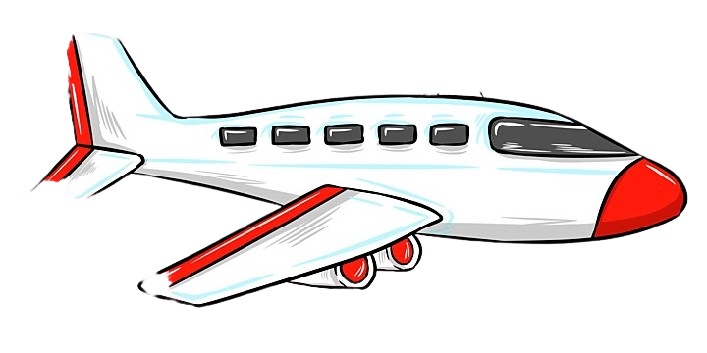
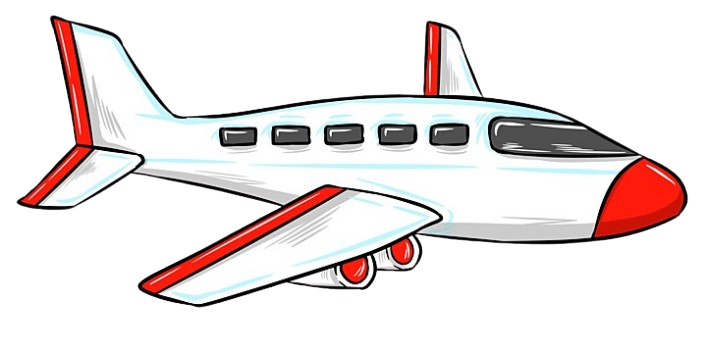
Add new AAC buttons (I, Want, Eat, Help, More, Chewy, Bear Paws), dynamic sentence builder, and iOS pinch-zoom prevention

diff --git a/index.html b/index.html
@@ -19,7 +19,79 @@
         }
         h1 {
             color: #333;
-            margin-bottom: 20px;
+            margin-bottom: 15px;
+        }
+
+        /* --- Dynamic Sentence Builder Bar --- */
+        .sentence-bar {
+            display: flex;
+            align-items: center;
+            justify-content: space-between;
+            background-color: white;
+            border-radius: 20px;
+            padding: 12px 20px;
+            max-width: 800px;
+            margin: 0 auto 20px auto;
+            box-shadow: 0 4px 12px rgba(0,0,0,0.15);
+            border: 4px solid #bbdefb;
+            gap: 15px;
+            box-sizing: border-box;
+        }
+
+        .sentence-display {
+            flex-grow: 1;
+            font-size: 22px;
+            font-weight: bold;
+            color: #333;
+            text-align: left;
+            min-height: 35px;
+            display: flex;
+            align-items: center;
+            overflow-x: auto;
+            white-space: nowrap;
+            padding: 0 5px;
+            cursor: pointer;
+        }
+
+        .placeholder-text {
+            color: #999;
+            font-style: italic;
+            font-weight: normal;
+        }
+
+        .sentence-actions {
+            display: flex;
+            gap: 10px;
+            flex-shrink: 0;
+        }
+
+        .sentence-btn {
+            background-color: #e3f2fd;
+            border: 2px solid #2196f3;
+            color: #0d47a1;
+            border-radius: 12px;
+            padding: 10px 18px;
+            font-size: 18px;
+            font-weight: bold;
+            cursor: pointer;
+            transition: transform 0.1s, background-color 0.1s;
+            user-select: none;
+            -webkit-tap-highlight-color: transparent;
+        }
+
+        .sentence-btn:active {
+            transform: scale(0.90);
+            background-color: #bbdefb;
+        }
+
+        .clear-btn {
+            background-color: #ffebee;
+            border-color: #ef5350;
+            color: #c62828;
+        }
+
+        .clear-btn:active {
+            background-color: #ffcdd2;
         }
         
         /* We use a 'Grid' to automatically arrange the cards nicely */
@@ -200,73 +272,104 @@
 
     <h1>Nolan's Communication Board</h1>
 
+    <!-- Dynamic Sentence Builder Bar -->
+    <div class="sentence-bar">
+        <div id="sentence-display" class="sentence-display" onclick="speakSentence()" ontouchstart="speakSentence()">
+            <span class="placeholder-text">Tap words to build a sentence...</span>
+        </div>
+        <div class="sentence-actions">
+            <button class="sentence-btn" onclick="speakSentence()" ontouchstart="speakSentence()">🔊 Speak</button>
+            <button class="sentence-btn clear-btn" onclick="clearSentence()" ontouchstart="clearSentence()">🗑 Clear</button>
+        </div>
+    </div>
+
     <div class="board">
         <!-- Core Words -->
-        <div class="card bg-core" onmousedown="speak('Yes')" ontouchstart="speak('Yes')">
+        <div class="card bg-core" onmousedown="handleCardPress('I')" ontouchstart="handleCardPress('I')">
+            <img src="images/I.png" alt="I" class="card-img">
+            I
+        </div>
+        <div class="card bg-core" onmousedown="handleCardPress('Want')" ontouchstart="handleCardPress('Want')">
+            <img src="images/want.png" alt="Want" class="card-img">
+            Want
+        </div>
+        <div class="card bg-core" onmousedown="handleCardPress('Eat')" ontouchstart="handleCardPress('Eat')">
+            <img src="images/eat.png" alt="Eat" class="card-img">
+            Eat
+        </div>
+        <div class="card bg-core" onmousedown="handleCardPress('Yes')" ontouchstart="handleCardPress('Yes')">
             <div class="emoji">✅</div>
             Yes
         </div>
-        <div class="card bg-core" onmousedown="speak('No')" ontouchstart="speak('No')">
+        <div class="card bg-core" onmousedown="handleCardPress('No')" ontouchstart="handleCardPress('No')">
             <div class="emoji">❌</div>
             No
         </div>
-        <div class="card bg-core" onmousedown="speak('Help please')" ontouchstart="speak('Help please')">
-            <div class="emoji">🤝</div>
+        <div class="card bg-core" onmousedown="handleCardPress('Help')" ontouchstart="handleCardPress('Help')">
+            <img src="images/help.png" alt="Help" class="card-img">
             Help
         </div>
-        <div class="card bg-core" onmousedown="speak('More')" ontouchstart="speak('More')">
-            <div class="emoji">➕</div>
+        <div class="card bg-core" onmousedown="handleCardPress('More')" ontouchstart="handleCardPress('More')">
+            <img src="images/more.png" alt="More" class="card-img">
             More
         </div>
-        <div class="card bg-core" onmousedown="speak('All done')" ontouchstart="speak('All done')">
+        <div class="card bg-core" onmousedown="handleCardPress('All done')" ontouchstart="handleCardPress('All done')">
             <img src="images/all done.png" alt="All Done" class="card-img">
             All Done
         </div>
-        <div class="card bg-core" onmousedown="speak('I need to use the bathroom')" ontouchstart="speak('I need to use the bathroom')">
+        <div class="card bg-core" onmousedown="handleCardPress('Bathroom')" ontouchstart="handleCardPress('Bathroom')">
             <div class="emoji">🚽</div>
             Bathroom
         </div>
 
         <!-- Food & Drink -->
-        <div class="card bg-food" onmousedown="speak('Banana')" ontouchstart="speak('Banana')">
+        <div class="card bg-food" onmousedown="handleCardPress('Banana')" ontouchstart="handleCardPress('Banana')">
             <div class="emoji">🍌</div>
             Banana
         </div>
-        <div class="card bg-food" onmousedown="speak('Apple juice')" ontouchstart="speak('Apple juice')">
+        <div class="card bg-food" onmousedown="handleCardPress('Apple juice')" ontouchstart="handleCardPress('Apple juice')">
             <img src="images/juice.png" alt="Apple Juice" class="card-img">
             Apple Juice
         </div>
-        <div class="card bg-food" onmousedown="speak('Milk')" ontouchstart="speak('Milk')">
+        <div class="card bg-food" onmousedown="handleCardPress('Milk')" ontouchstart="handleCardPress('Milk')">
             <img src="images/milk.png" alt="Milk" class="card-img">
             Milk
         </div>
+        <div class="card bg-food" onmousedown="handleCardPress('Bear Paws')" ontouchstart="handleCardPress('Bear Paws')">
+            <img src="images/bearpaw.jpg" alt="Bear Paws" class="card-img">
+            Bear Paws
+        </div>
+        <div class="card bg-food" onmousedown="handleCardPress('Chewy')" ontouchstart="handleCardPress('Chewy')">
+            <img src="images/chewy.png" alt="Chewy" class="card-img">
+            Chewy
+        </div>
 
         <!-- Activities -->
-        <div class="card bg-activity" onmousedown="speak('I want to go for a bike ride')" ontouchstart="speak('I want to go for a bike ride')">
+        <div class="card bg-activity" onmousedown="handleCardPress('I want to go for a bike ride')" ontouchstart="handleCardPress('I want to go for a bike ride')">
             <div class="emoji">🚲</div>
             Bike Ride
         </div>
-        <div class="card bg-activity" onmousedown="speak('I want to listen to music')" ontouchstart="speak('I want to listen to music')">
+        <div class="card bg-activity" onmousedown="handleCardPress('I want to listen to music')" ontouchstart="handleCardPress('I want to listen to music')">
             <img src="images/music.png" alt="Music" class="card-img">
             Music
         </div>
-        <div class="card bg-activity" onmousedown="speak('I want to watch TV')" ontouchstart="speak('I want to watch TV')">
+        <div class="card bg-activity" onmousedown="handleCardPress('I want to watch TV')" ontouchstart="handleCardPress('I want to watch TV')">
             <div class="emoji">📺</div>
             TV
         </div>
-        <div class="card bg-activity" onmousedown="speak('I want to go to the park')" ontouchstart="speak('I want to go to the park')">
+        <div class="card bg-activity" onmousedown="handleCardPress('I want to go to the park')" ontouchstart="handleCardPress('I want to go to the park')">
             <img src="images/park.png" alt="Park" class="card-img">
             Park
         </div>
-        <div class="card bg-activity" onmousedown="speak('I want to go on the swing')" ontouchstart="speak('I want to go on the swing')">
+        <div class="card bg-activity" onmousedown="handleCardPress('I want to go on the swing')" ontouchstart="handleCardPress('I want to go on the swing')">
             <img src="images/swing.jpg" alt="Swing" class="card-img">
             Swing
         </div>
-        <div class="card bg-activity" onmousedown="speak('Ms. Rachel')" ontouchstart="speak('Ms. Rachel')">
+        <div class="card bg-activity" onmousedown="handleCardPress('Ms. Rachel')" ontouchstart="handleCardPress('Ms. Rachel')">
             <img src="images/ms rachel.jpg" alt="Ms Rachel" class="card-img">
             Ms. Rachel
         </div>
-        <div class="card bg-activity" onmousedown="speak('TV Songs')" ontouchstart="speak('TV Songs')">
+        <div class="card bg-activity" onmousedown="handleCardPress('TV Songs')" ontouchstart="handleCardPress('TV Songs')">
             <img src="images/super simple.jpg" alt="Super Simple" class="card-img">
             TV Songs
         </div>
@@ -283,6 +386,41 @@
         // Store the available voices
         let availableVoices = [];
         let lastSpeakTime = 0;
+        let currentSentence = [];
+
+        function handleCardPress(text) {
+            // Prevent double-firing
+            if (Date.now() - lastSpeakTime < 500) return;
+            
+            // Speak individual word immediately
+            speak(text);
+
+            // Add to sentence builder
+            currentSentence.push(text);
+            updateSentenceDisplay();
+        }
+
+        function updateSentenceDisplay() {
+            const display = document.getElementById('sentence-display');
+            if (currentSentence.length === 0) {
+                display.innerHTML = '<span class="placeholder-text">Tap words to build a sentence...</span>';
+            } else {
+                display.innerText = currentSentence.join('   ›   ');
+            }
+        }
+
+        function speakSentence() {
+            if (currentSentence.length === 0) return;
+            const fullSentence = currentSentence.join(' ');
+            speak(fullSentence);
+        }
+
+        function clearSentence() {
+            // Prevent double-firing
+            if (Date.now() - lastSpeakTime < 500) return;
+            currentSentence = [];
+            updateSentenceDisplay();
+        }
 
         // --- Web Audio API (For Sound Effects) ---
         // Initialize this inside a function or on first touch so iOS doesn't block it!
@@ -595,6 +733,17 @@
         window.addEventListener('load', () => {
             setTimeout(launchPlane, 5000); // First flight happens 5 seconds after app opens!
         });
+
+        // --- Prevent iOS Pinch-Zooming ---
+        document.addEventListener('gesturestart', function (e) {
+            e.preventDefault();
+        });
+
+        document.addEventListener('touchmove', function (e) {
+            if (e.scale !== 1) {
+                e.preventDefault();
+            }
+        }, { passive: false });
 
     </script>
 
